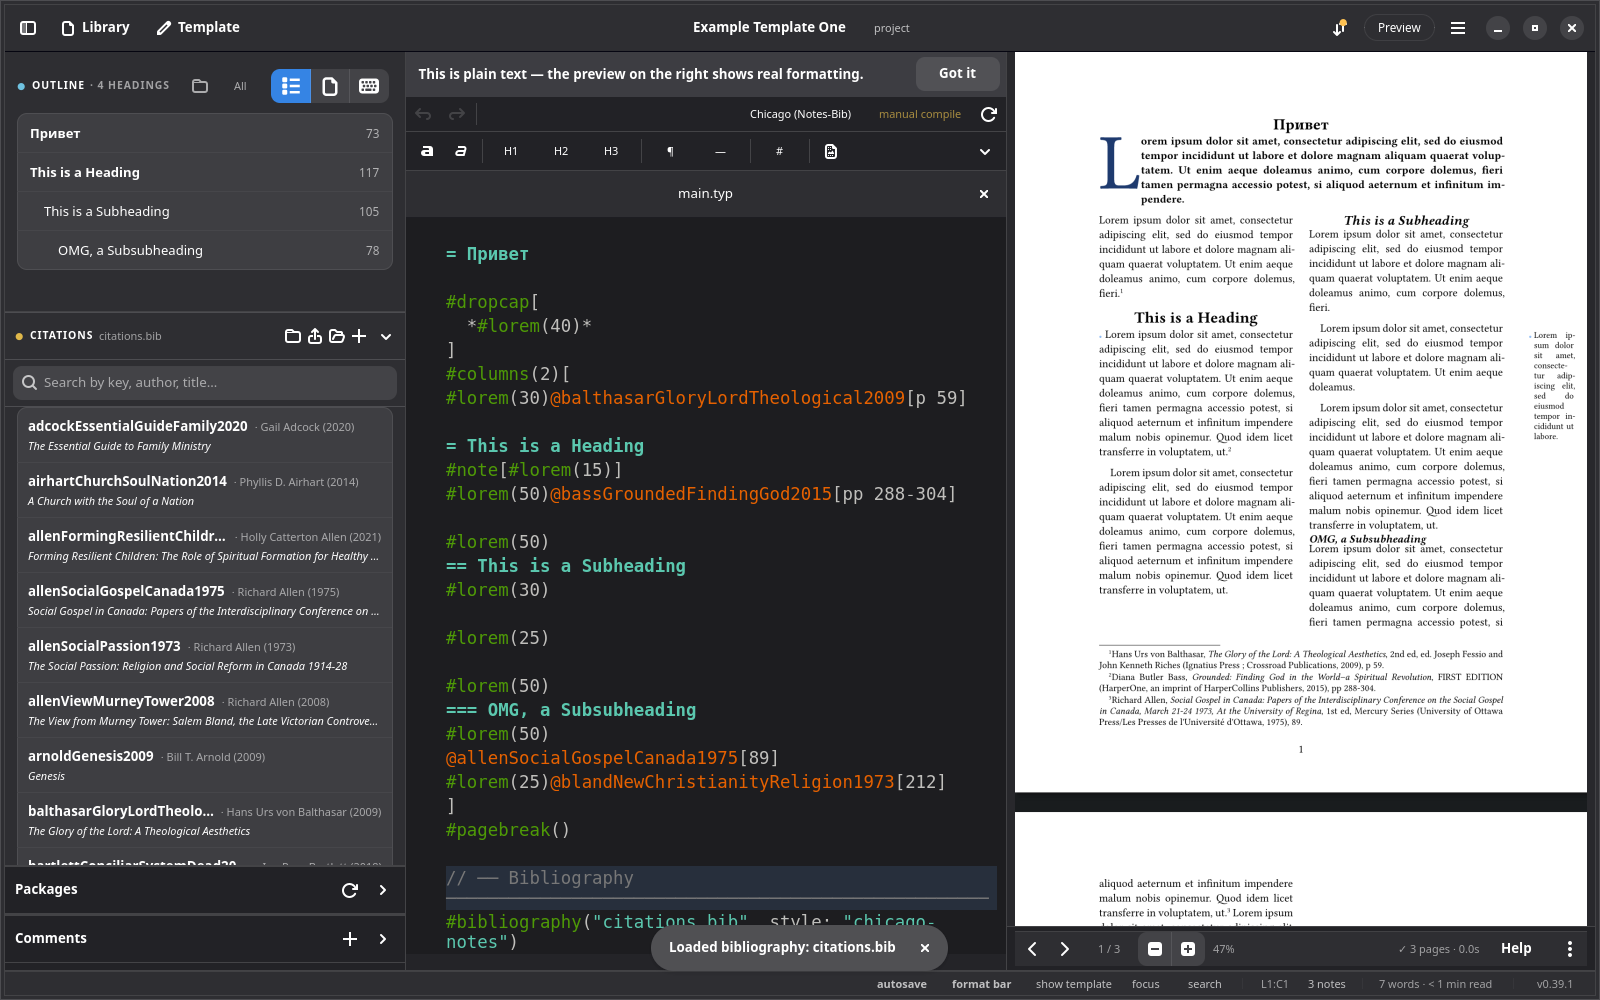
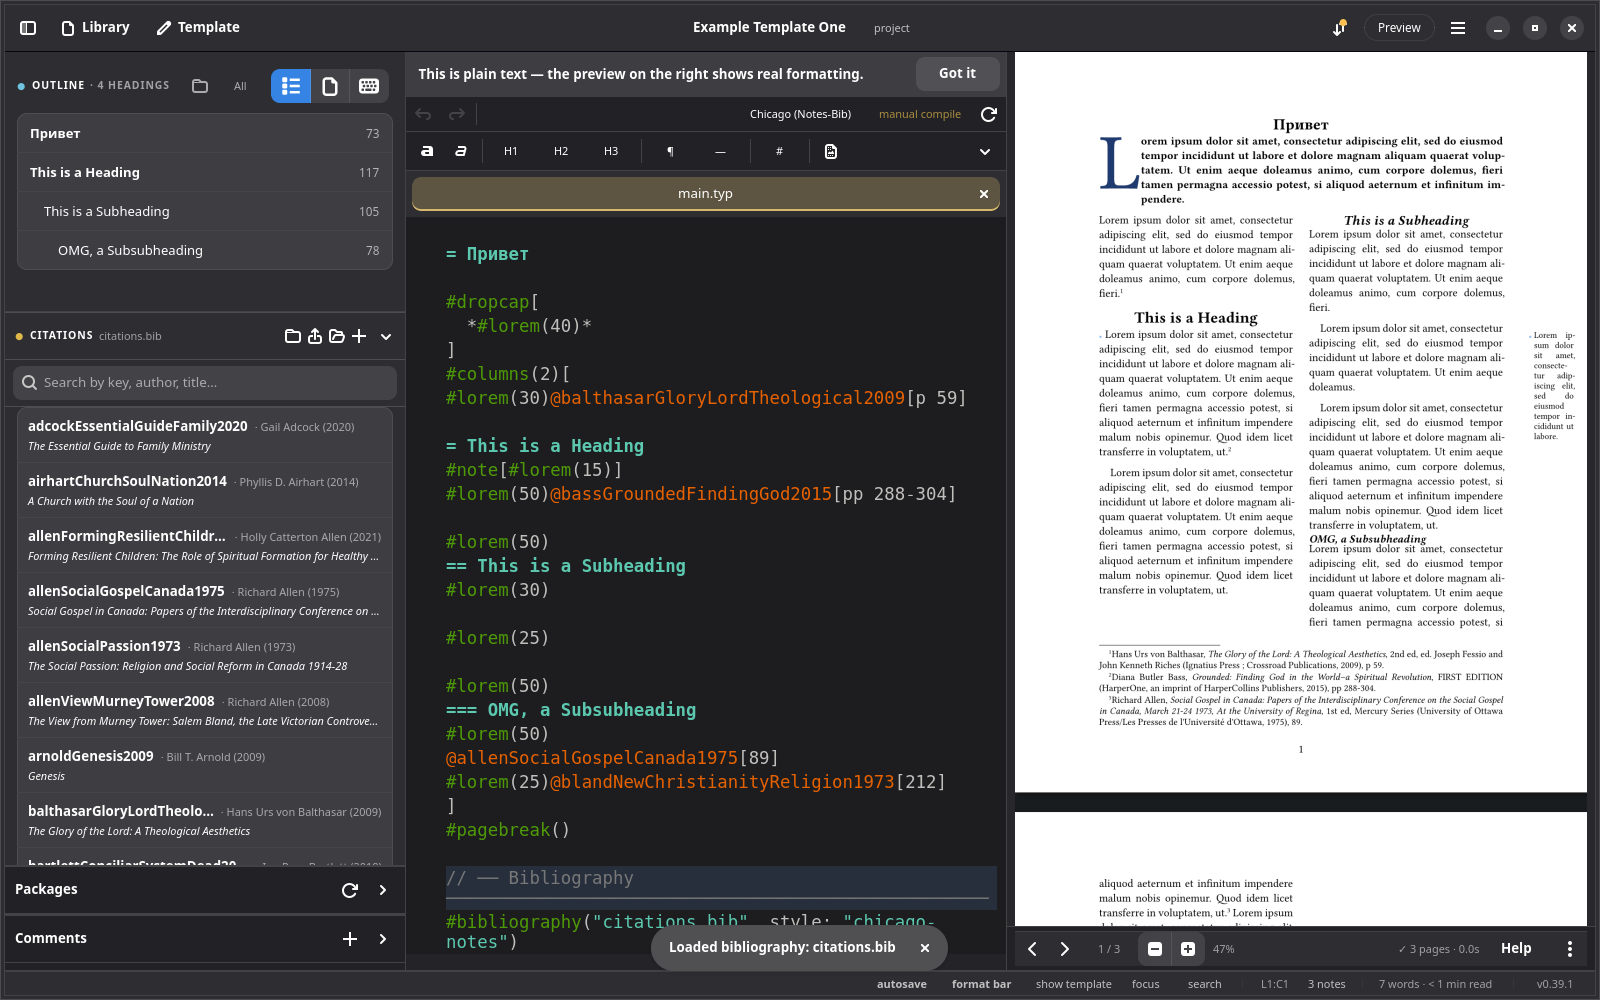
Give the tab bar the Fond highlight palette
Claude-Session: https://claude.ai/code/session_01RWc3qD1bMp1wnqENy5rqom

Changed region(s): [[0.25, 0.155, 0.625, 0.217]]

diff --git a/style/fond.css b/style/fond.css
@@ -187,3 +187,35 @@ headerbar .fond-title-btn:hover label { opacity: 0.75; }
 /* An unframed search field reads as part of the list rather than as chrome. */
 .fond-search { background: transparent; box-shadow: none; border: none; }
 .fond-search:focus-within { background: alpha(@window_fg_color, 0.05); }
+
+/* ── Highlight palette ──────────────────────────────────────────────────────
+ * The four reading-highlight colours, first defined in Pereplyot's palette
+ * (fond-read-gtk/src/palette.rs) and shared here so the suite has one set of
+ * muted, paper-friendly hues rather than each app inventing its own. They are
+ * deliberately not theme colours: a highlight keeps its hue in light and dark,
+ * so use them as washes (alpha) over a surface, never as text colour.
+ *
+ *   ochre      key idea / thesis
+ *   blue       evidence / support
+ *   sage       connection / implication
+ *   terracotta problem / question
+ */
+@define-color fond_hl_ochre #D6B86A;
+@define-color fond_hl_blue #91A9B8;
+@define-color fond_hl_sage #9CAF88;
+@define-color fond_hl_terracotta #C98F78;
+
+.fond-hl-ochre { background-color: alpha(@fond_hl_ochre, 0.35); }
+.fond-hl-blue { background-color: alpha(@fond_hl_blue, 0.35); }
+.fond-hl-sage { background-color: alpha(@fond_hl_sage, 0.35); }
+.fond-hl-terracotta { background-color: alpha(@fond_hl_terracotta, 0.35); }
+
+/* ── Tabs ───────────────────────────────────────────────────────────────────
+ * On an AdwTabBar (give it .fond-tabs): the selected tab is a warm ochre wash
+ * with an ochre rule beneath it, and a hovered one takes the dusty blue, so the
+ * bar reads as part of the same palette as the highlights. */
+tabbar.fond-tabs tab:hover { background-color: alpha(@fond_hl_blue, 0.22); }
+tabbar.fond-tabs tab:selected {
+  background-color: alpha(@fond_hl_ochre, 0.28);
+  box-shadow: inset 0 -2px @fond_hl_ochre;
+}

diff --git a/src/ui/tab_host.rs b/src/ui/tab_host.rs
@@ -24,6 +24,7 @@ impl TabHost {
         view.set_hexpand(true);
         view.set_vexpand(true);
         let bar = adw::TabBar::new();
+        bar.add_css_class("fond-tabs");
         bar.set_view(Some(&view));
         bar.set_autohide(false);
         bar.set_expand_tabs(true);

diff --git a/CHANGELOG.md b/CHANGELOG.md
@@ -3,6 +3,12 @@
 All notable changes to Zerkalo are recorded here.  
 Format follows [Keep a Changelog](https://keepachangelog.com/en/1.1.0/).
 
+## [Unreleased]
+
+### Changed
+
+- **The tab bar takes the Fond palette.** The selected tab is a warm ochre wash with an ochre rule beneath it, and a hovered tab takes dusty blue — the same muted hues Pereplyot uses for highlights, now shared suite-wide through `fond.css`.
+
 ---
 
 ## [0.39.1] "Clear Glass" — 2026-09-30 — A quieter header
